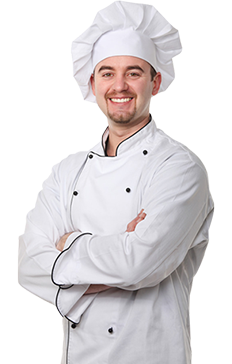
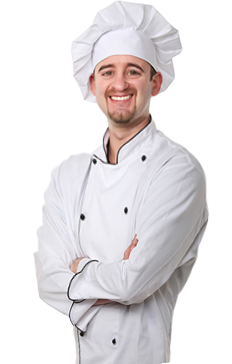
site-du-chef-sn

diff --git a/index.html b/index.html
@@ -1380,11 +1380,11 @@
             <div class="container mt-7">
                 <div class="d-flex justify-content-evenly">
                     <div class="chief1">
-                        <img src="./public/img/chef1.png" class=" border-bottom-grey img-fluid" alt="chef1">
+                        <img src="./public/img/chef1.1.png" class=" border-bottom-grey img-fluid" alt="chef1">
                         <p class="text-center text-light">Lorem ipsum</p>
-                    </div>
+                    </div> 
                     <div class="chief2">
-                        <img src="./public/img/chef2.png" class=" border-bottom-grey img-fluid" alt="chef2">
+                        <img src="./public/img/chef2.2.png" class=" border-bottom-grey img-fluid" alt="chef2">
                         <p class="text-center text-light">Lorem ipsum</p>
                     </div>
                     <div class="chief3">
@@ -1537,11 +1537,13 @@
                                                 </p>
                                             </div>
                                         </div>
-                                        <div class="text-position mt-5 ">
+                                        <div class="text-position d-flex justify-content-center align-items-center flex-column mt-5 ">
+                                            <div class="plop">
                                             <h5>Lorem Ipsum</h5>
-                                            <p class="">Lorem Ipsum is simply dummy text of the printing <br> and
+                                            <p>Lorem Ipsum is simply dummy text of the printing <br> and
                                                 typesetting
                                                 industry.</p>
+                                            </div>
                                         </div>
                                 </div>
                                 <div class="col-12 col-sm-12 col-md-12 col-lg-6">
@@ -1557,11 +1559,13 @@
                                             </p>
                                         </div>
                                     </div>
-                                    <div class="text-position text-start mt-5 ">
+                                    <div class="text-position d-flex justify-content-center align-items-center flex-column mt-5 ">
+                                        <div class="plop">
                                         <h5>Lorem Ipsum</h5>
-                                        <p class="">Lorem Ipsum is simply dummy text of the printing <br> and
+                                        <p>Lorem Ipsum is simply dummy text of the printing <br> and
                                             typesetting
                                             industry.</p>
+                                        </div>
                                     </div>
                                 </div>
                             </div>

diff --git a/src/sass/style.sass b/src/sass/style.sass
@@ -91,8 +91,7 @@ header
         position: absolute
         z-index: 1 !important
         bottom: -20px
-.text-position
-    margin-left: 150px !important
+
 .testimonial
     background-image: linear-gradient(rgba(38, 38, 58, 0.7),rgba(39, 38, 48, 0.6)), url(../../public/img/testimonials_background.jpg)
     background-size: cover
@@ -124,12 +123,6 @@ footer
     position: relative
 
 ////////////////////////////////////////////////// MediaQueries /////////////////////////////////////////////////////////////////////////
-@media (min-width: 992px) and (max-width:1200px)
-    .nav-link
-        font-size: 13px
-        padding:20px !important
-    
-
 @media (min-width: 768px) and (max-width: 992px)
     .navbar-nav
         display: flex
@@ -147,15 +140,16 @@ footer
             width: 30px
             height: auto
     .card-body
-        .text-position
-            max-width: max-content
-            display: flex
-            justify-content: center
-            flex-direction: column
-    
     .icon-footer
         display: flex
         flex-wrap: nowrap
+    .text-position
+        display: flex
+        justify-content: center 
+        flex-direction: column
+        align-items: center
+        >div
+            text-align: center
 @media (min-width: 576px) and (max-width:768px)
     .col-nav-tab
         >div
@@ -188,11 +182,13 @@ footer
         >img
             width: 30px
             height: auto
-
     .text-position
-        text-align: center !important
-        margin-left: 170px !important      
-       
+        display: flex
+        justify-content: center 
+        flex-direction: column
+        align-items: center
+        >div
+            text-align: center
 
 
 @media (max-width:576px) 

diff --git a/public/css/style.css b/public/css/style.css
@@ -20627,10 +20627,6 @@ header {
   bottom: -20px;
 }
 
-.text-position {
-  margin-left: 150px !important;
-}
-
 .testimonial {
   background-image: linear-gradient(rgba(38, 38, 58, 0.7), rgba(39, 38, 48, 0.6)), url(../../public/img/testimonials_background.jpg);
   background-size: cover;
@@ -20673,12 +20669,6 @@ footer {
   position: relative;
 }
 
-@media (min-width: 992px) and (max-width: 1200px) {
-  .nav-link {
-    font-size: 13px;
-    padding: 20px !important;
-  }
-}
 @media (min-width: 768px) and (max-width: 992px) {
   .navbar-nav {
     display: flex;
@@ -20706,16 +20696,19 @@ footer {
     height: auto;
   }
 
-  .card-body .text-position {
-    max-width: max-content;
-    display: flex;
-    justify-content: center;
-    flex-direction: column;
-  }
-
   .icon-footer {
     display: flex;
     flex-wrap: nowrap;
+  }
+
+  .text-position {
+    display: flex;
+    justify-content: center;
+    flex-direction: column;
+    align-items: center;
+  }
+  .text-position > div {
+    text-align: center;
   }
 }
 @media (min-width: 576px) and (max-width: 768px) {
@@ -20762,8 +20755,13 @@ footer {
   }
 
   .text-position {
-    text-align: center !important;
-    margin-left: 170px !important;
+    display: flex;
+    justify-content: center;
+    flex-direction: column;
+    align-items: center;
+  }
+  .text-position > div {
+    text-align: center;
   }
 }
 @media (max-width: 576px) {
